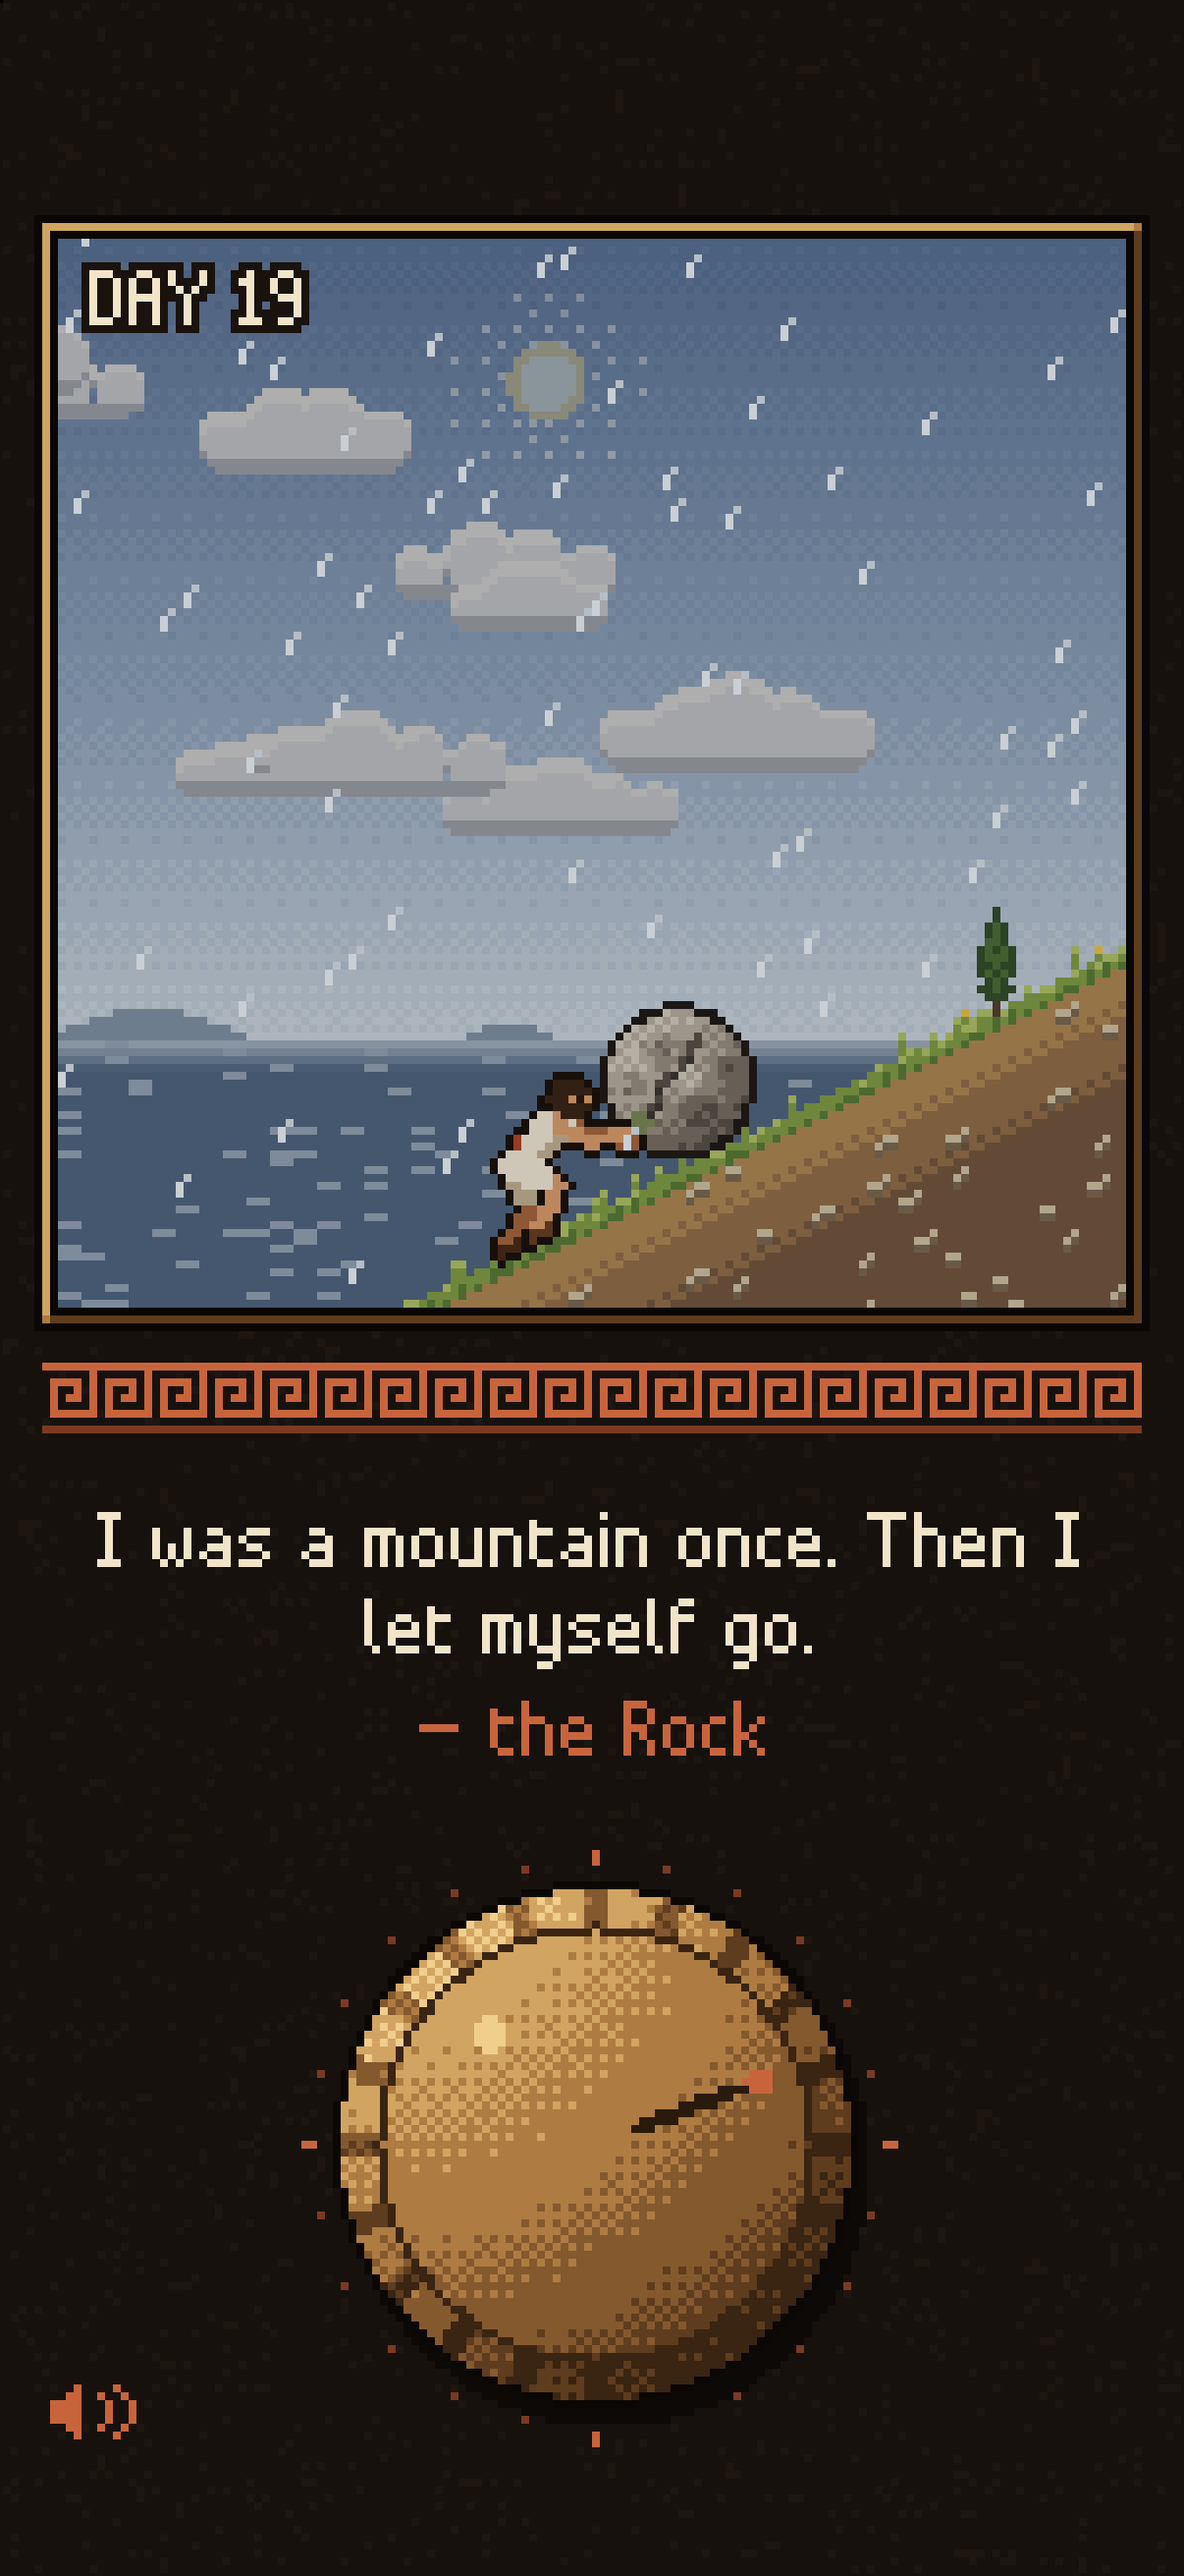
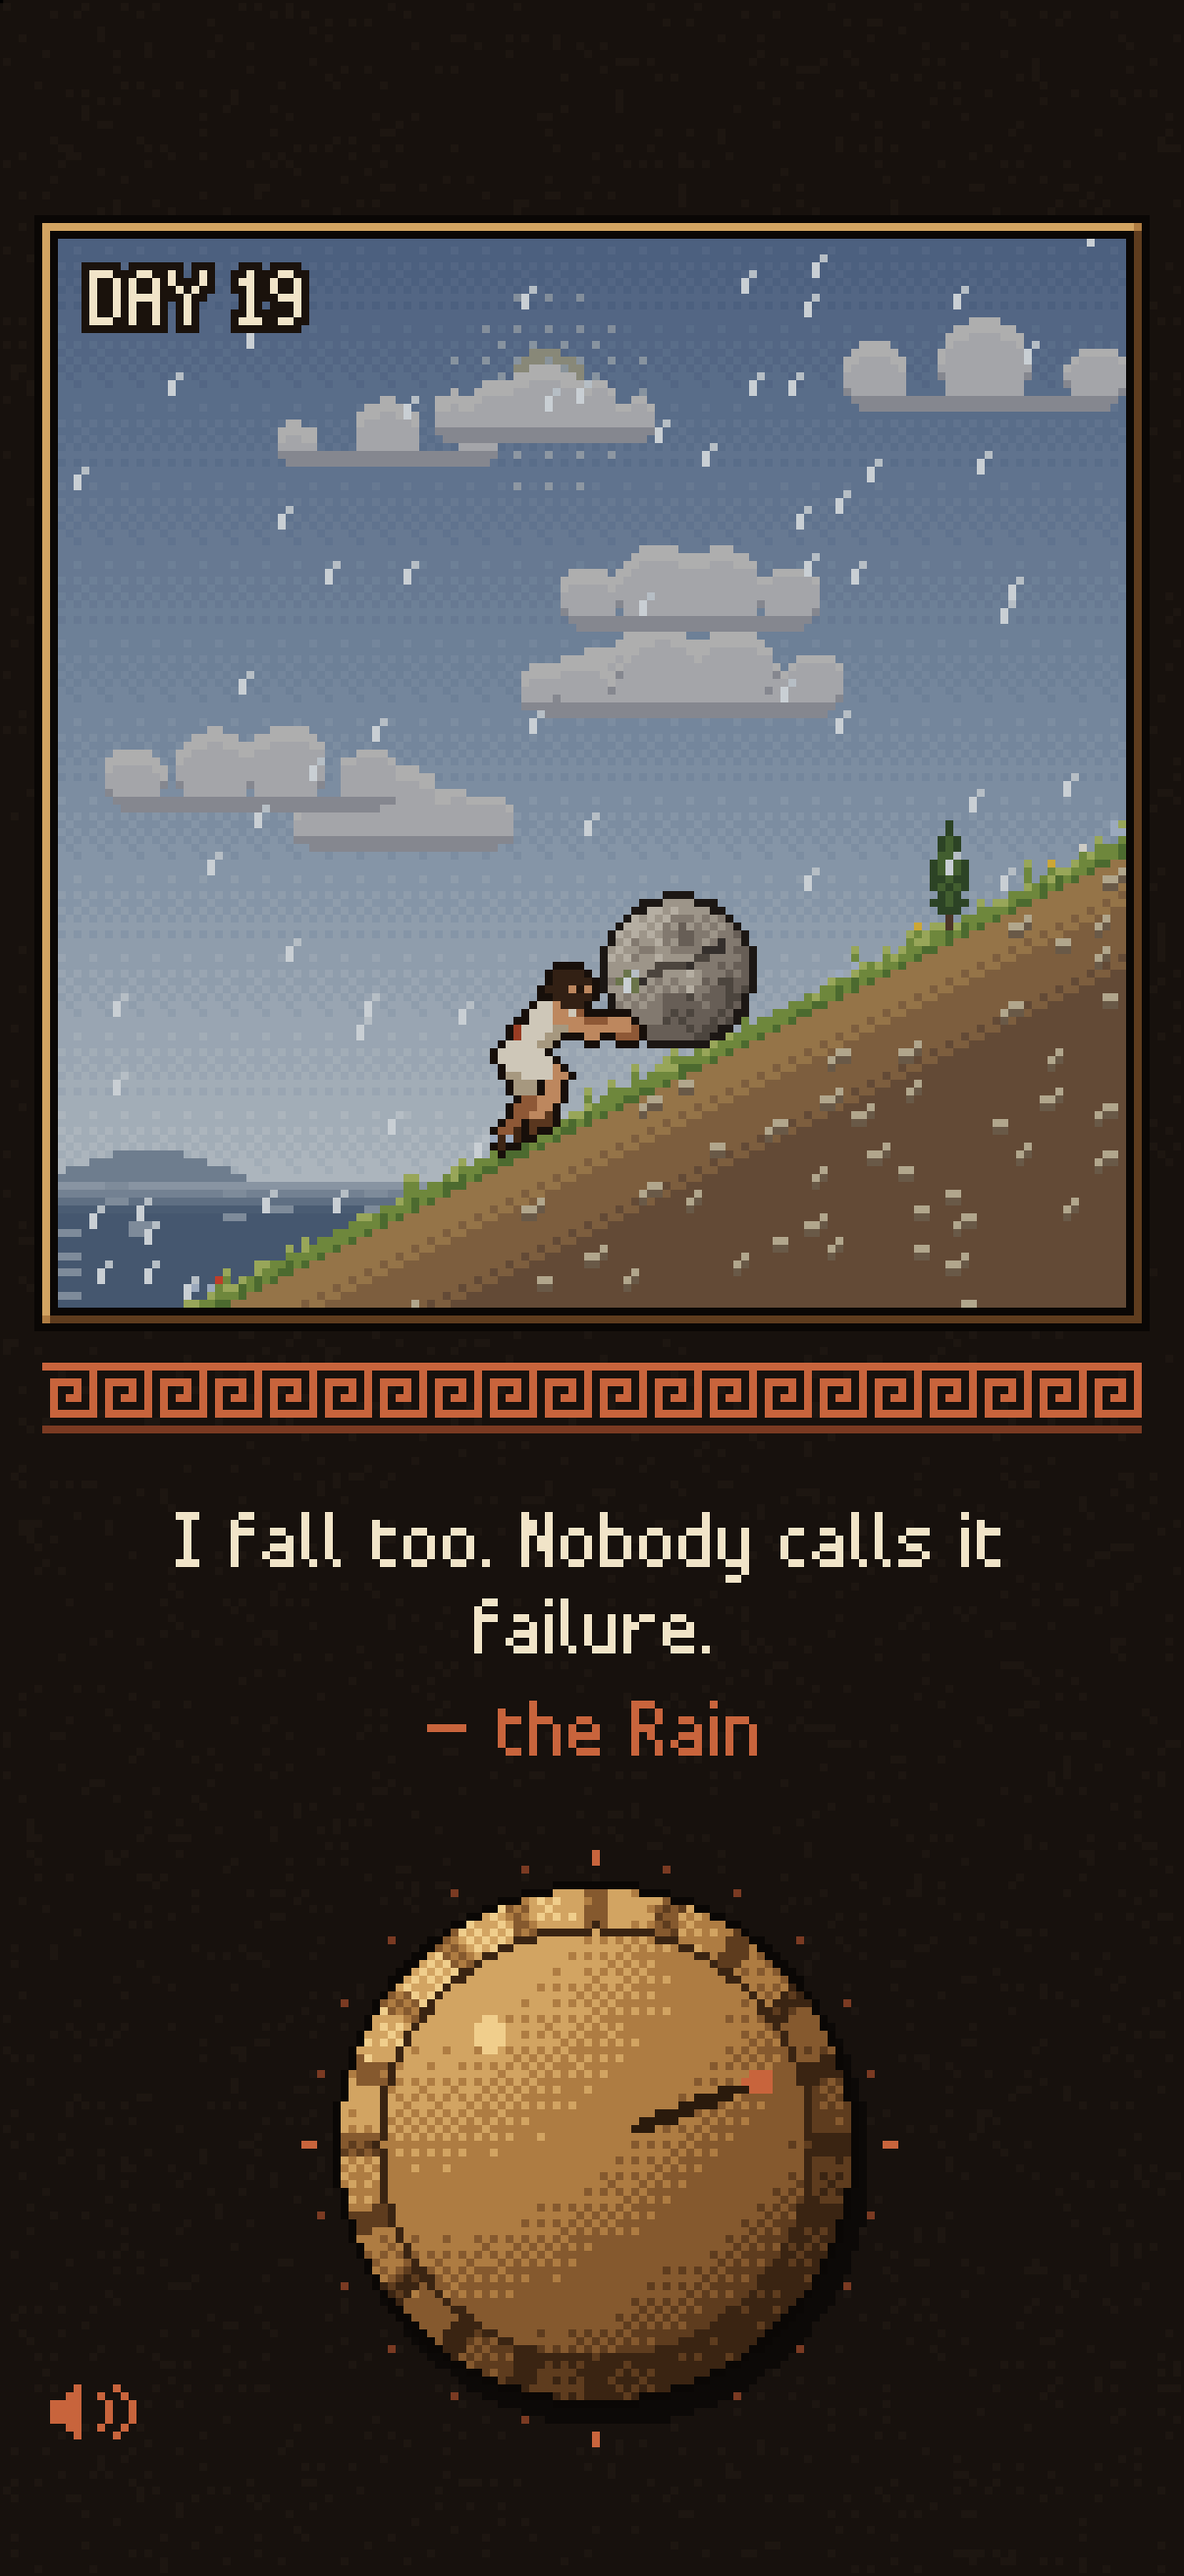
Prepare 1.1: new screenshots, version and What's New
- Retake the App Store screenshots with the new hill and quotes.
- Bump the version to 1.1 (build 2).
- Add the What's New text to the listing.

diff --git a/appstore/listing.md b/appstore/listing.md
@@ -44,6 +44,12 @@ Sisyphus is a small, calm pixel-art game. Under a window to a Greek hillside sit
 
 No ads. No accounts. No data collected. Just the hill, the rock and you.
 
+## What's New in 1.1 (140/4000)
+
+- Sisyphus now climbs whichever way you turn the knob.
+- A new view of the hill, with more sky.
+- 50 new wise words, from Camus to the Rain.
+
 ## Notes for App Review
 
 No account or login is needed. Drag a finger in a circle on the bronze knob at the bottom of the screen to push the rock. The speaker icon in the bottom-left corner turns the sound on and off.
